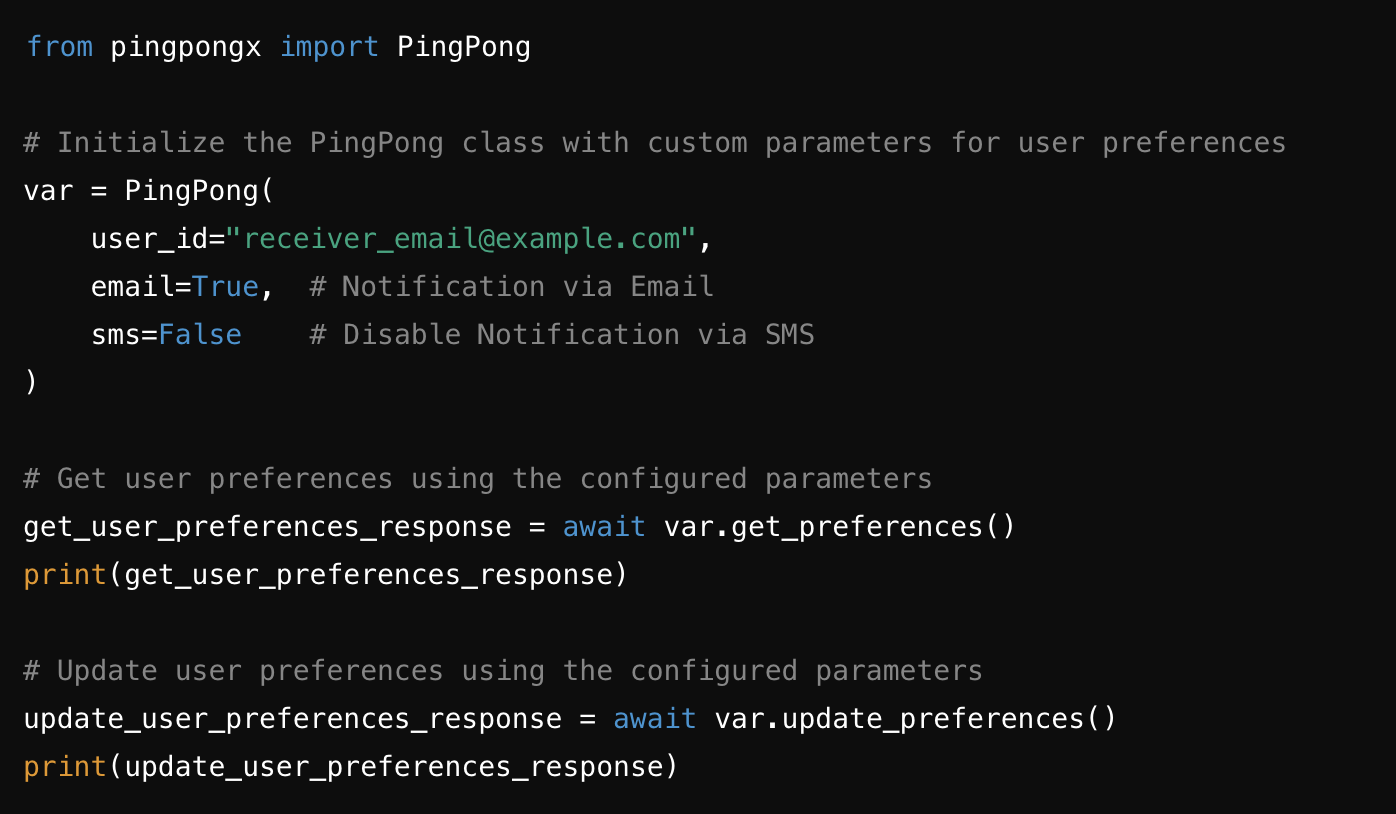
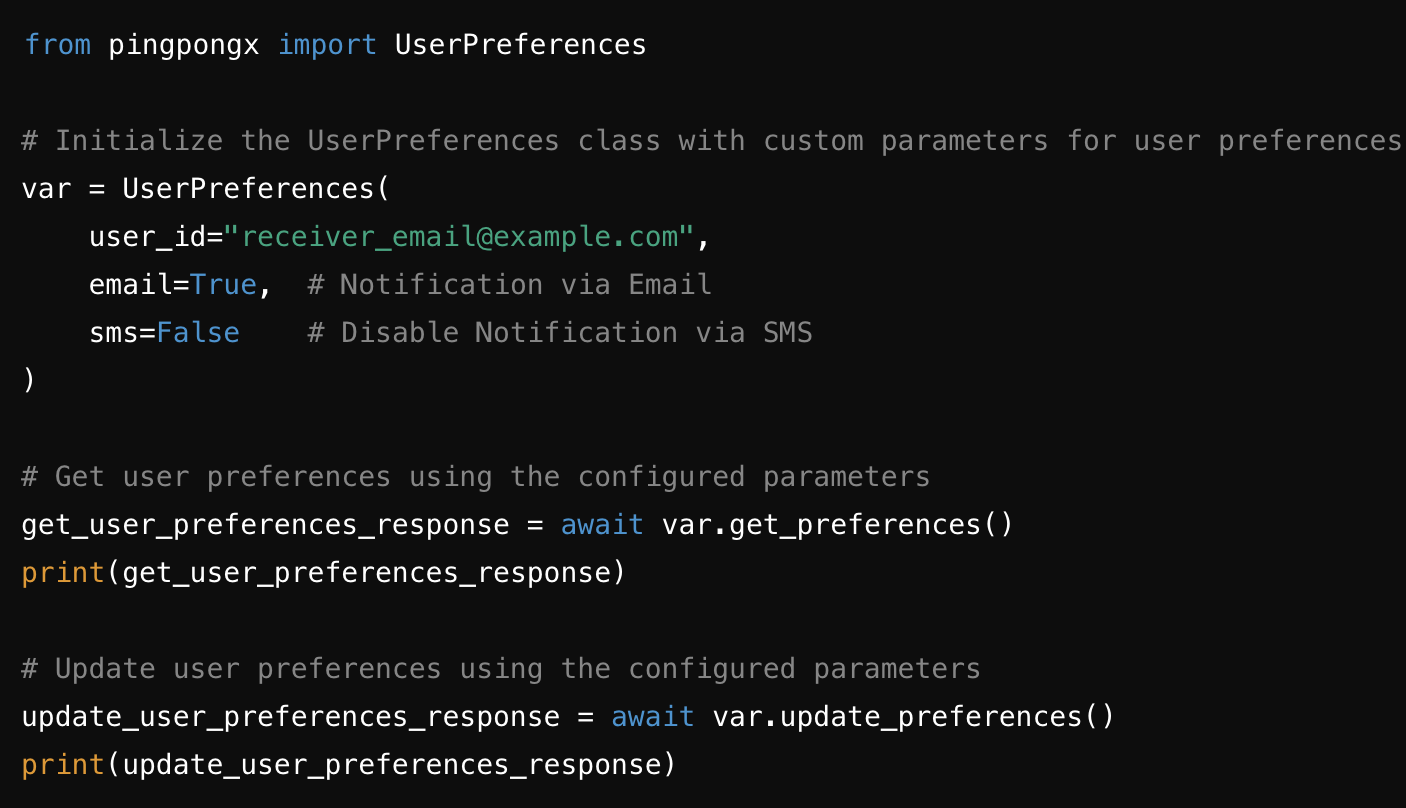
code snippets added to readme.md

diff --git a/README.md b/README.md
@@ -97,8 +97,25 @@ PingPong is a robust, scalable, and highly customizable **Dynamic Notification D
 ---
 
 ## **PyPI Setup and Usage**
-![Image description](https://raw.githubusercontent.com/karan-kap00r/PingPong/refs/heads/master/pypi_import_code.png)
+- To import package:
+![Image description](https://raw.githubusercontent.com/karan-kap00r/PingPong/refs/heads/master/static/import.png)
+- To send notifications by importing python package:
+![Image description](https://raw.githubusercontent.com/karan-kap00r/PingPong/refs/heads/master/static/code.png)
+- To set and get user preferences:
+![Image description](https://raw.githubusercontent.com/karan-kap00r/PingPong/refs/heads/master/static/get_set_UP.png)
 
+---
+## **Usage Via APIs**
+- To SignUp:
+![Image description](https://raw.githubusercontent.com/karan-kap00r/PingPong/refs/heads/master/static/signUp.png)
+- To Login:
+![Image description](https://raw.githubusercontent.com/karan-kap00r/PingPong/refs/heads/master/static/login.png)
+- To Send Notifications:
+![Image description](https://raw.githubusercontent.com/karan-kap00r/PingPong/refs/heads/master/static/send.png)
+- To Get User Preferences:
+![Image description](https://raw.githubusercontent.com/karan-kap00r/PingPong/refs/heads/master/static/getUP.png)
+- To Update User Preferences:
+![Image description](https://raw.githubusercontent.com/karan-kap00r/PingPong/refs/heads/master/static/setUP.png)
 ---
 
 ## **Why PingPong?**
